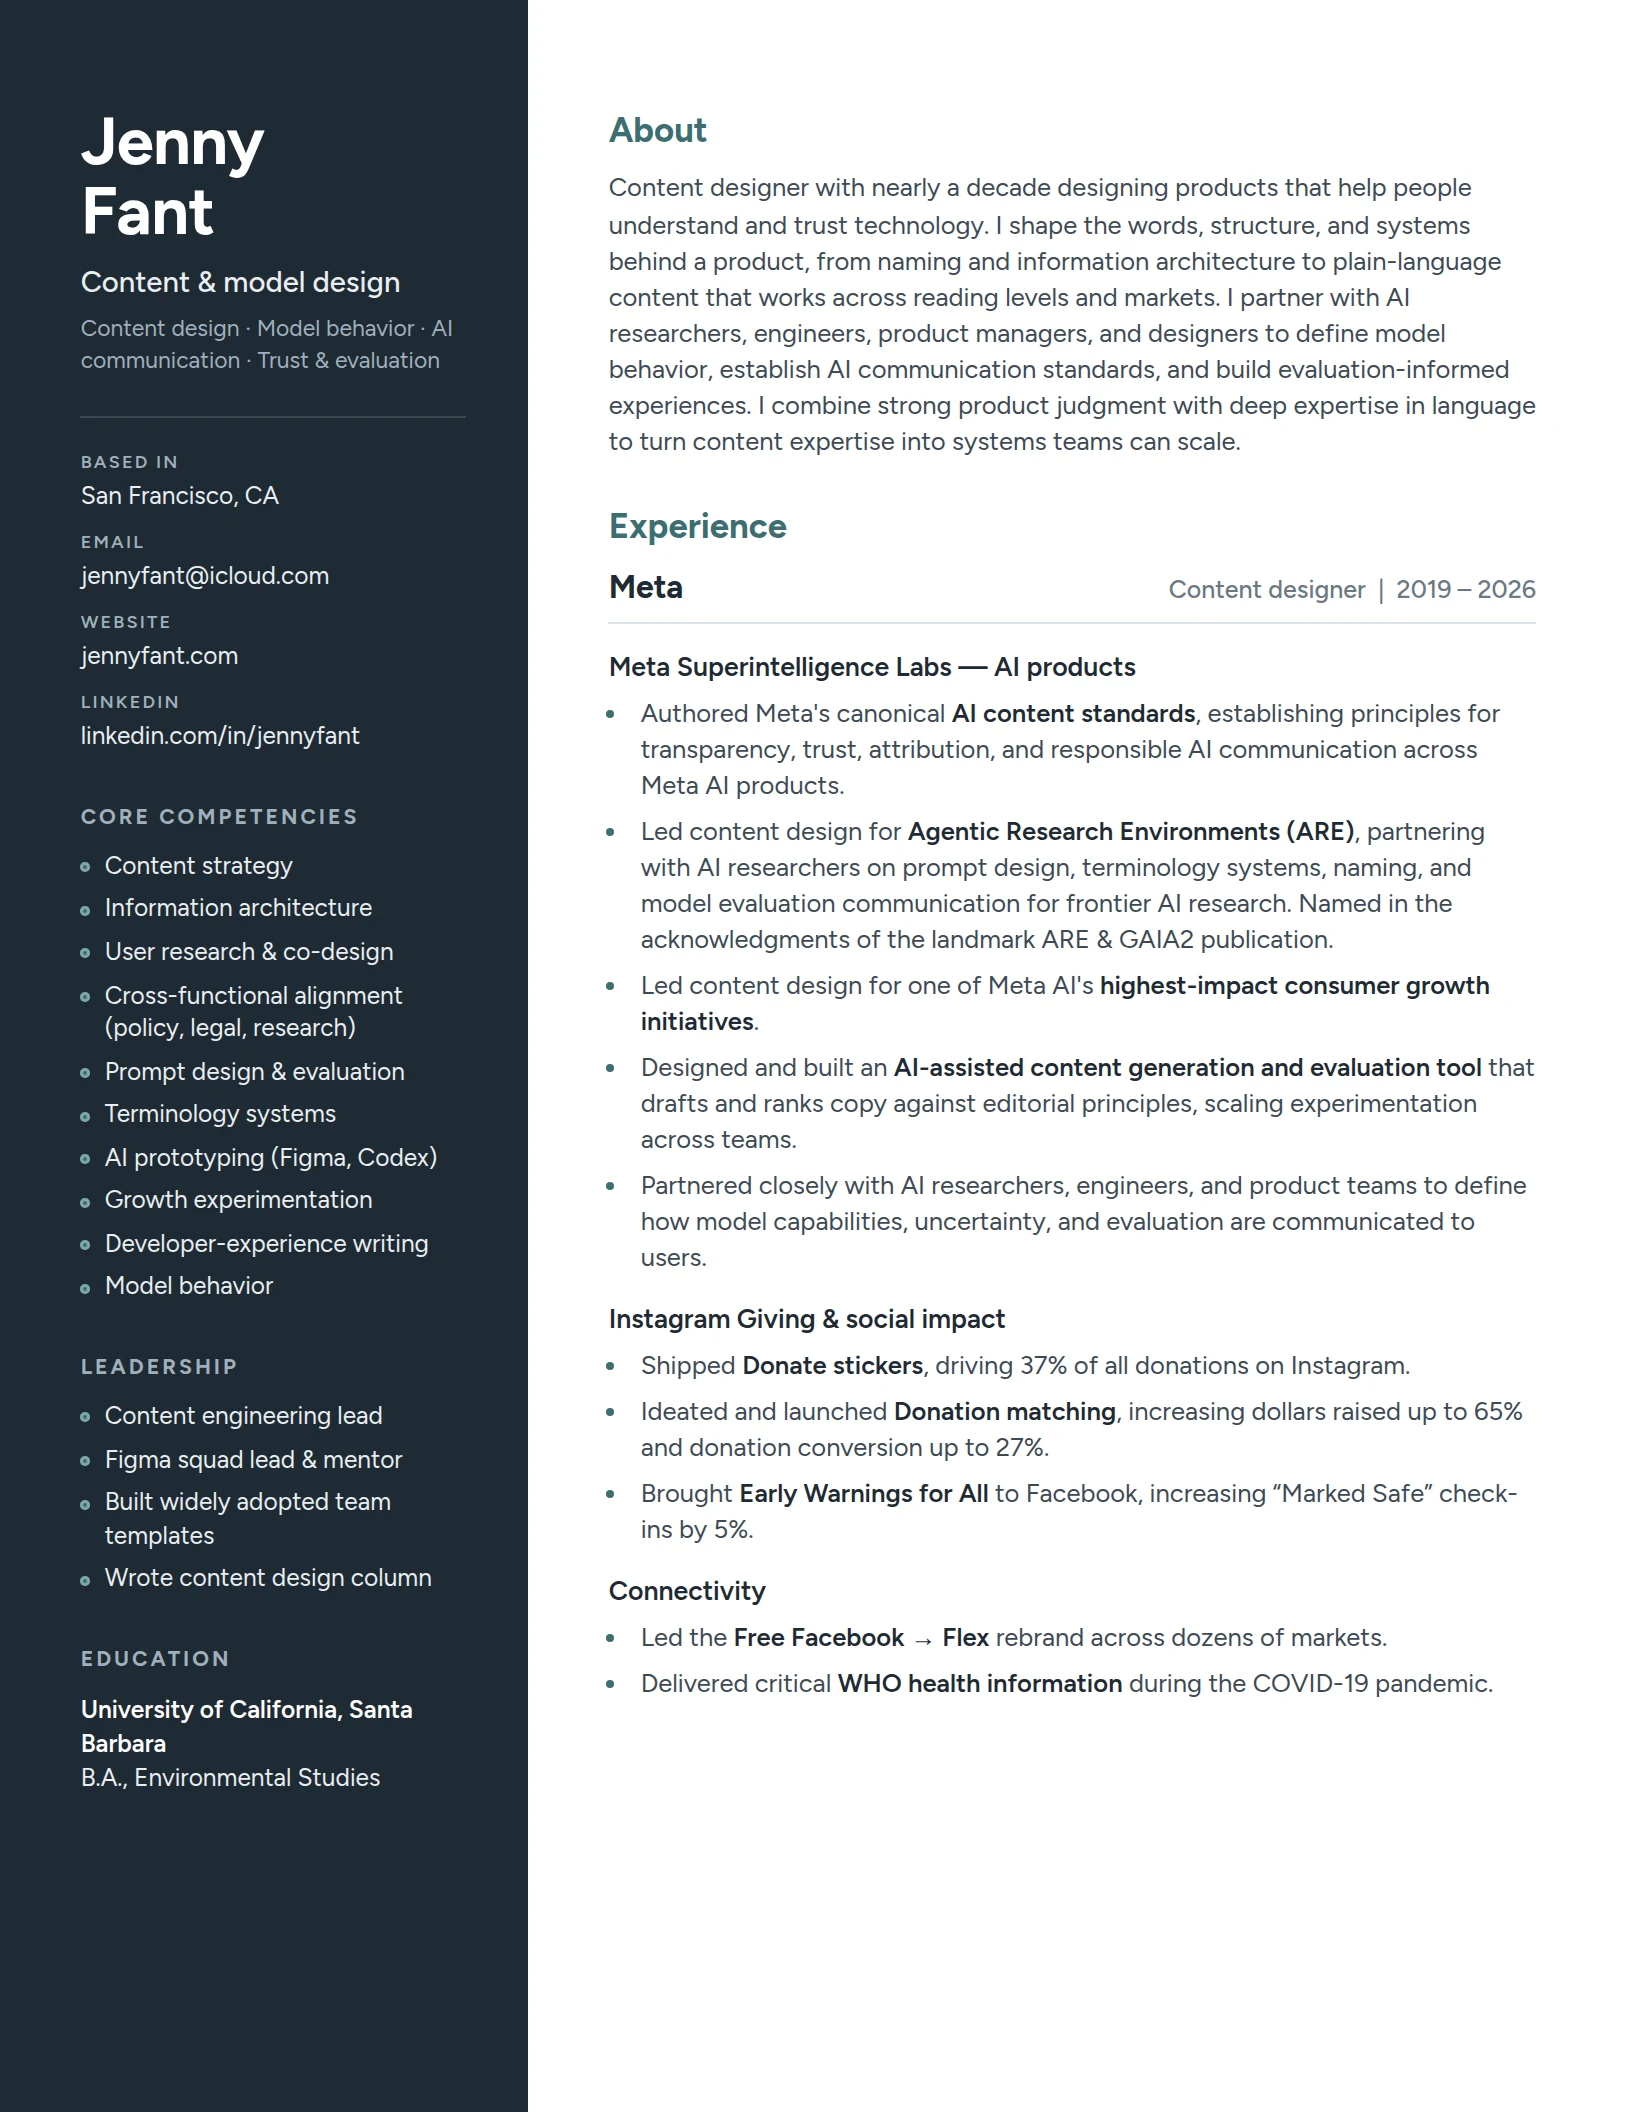
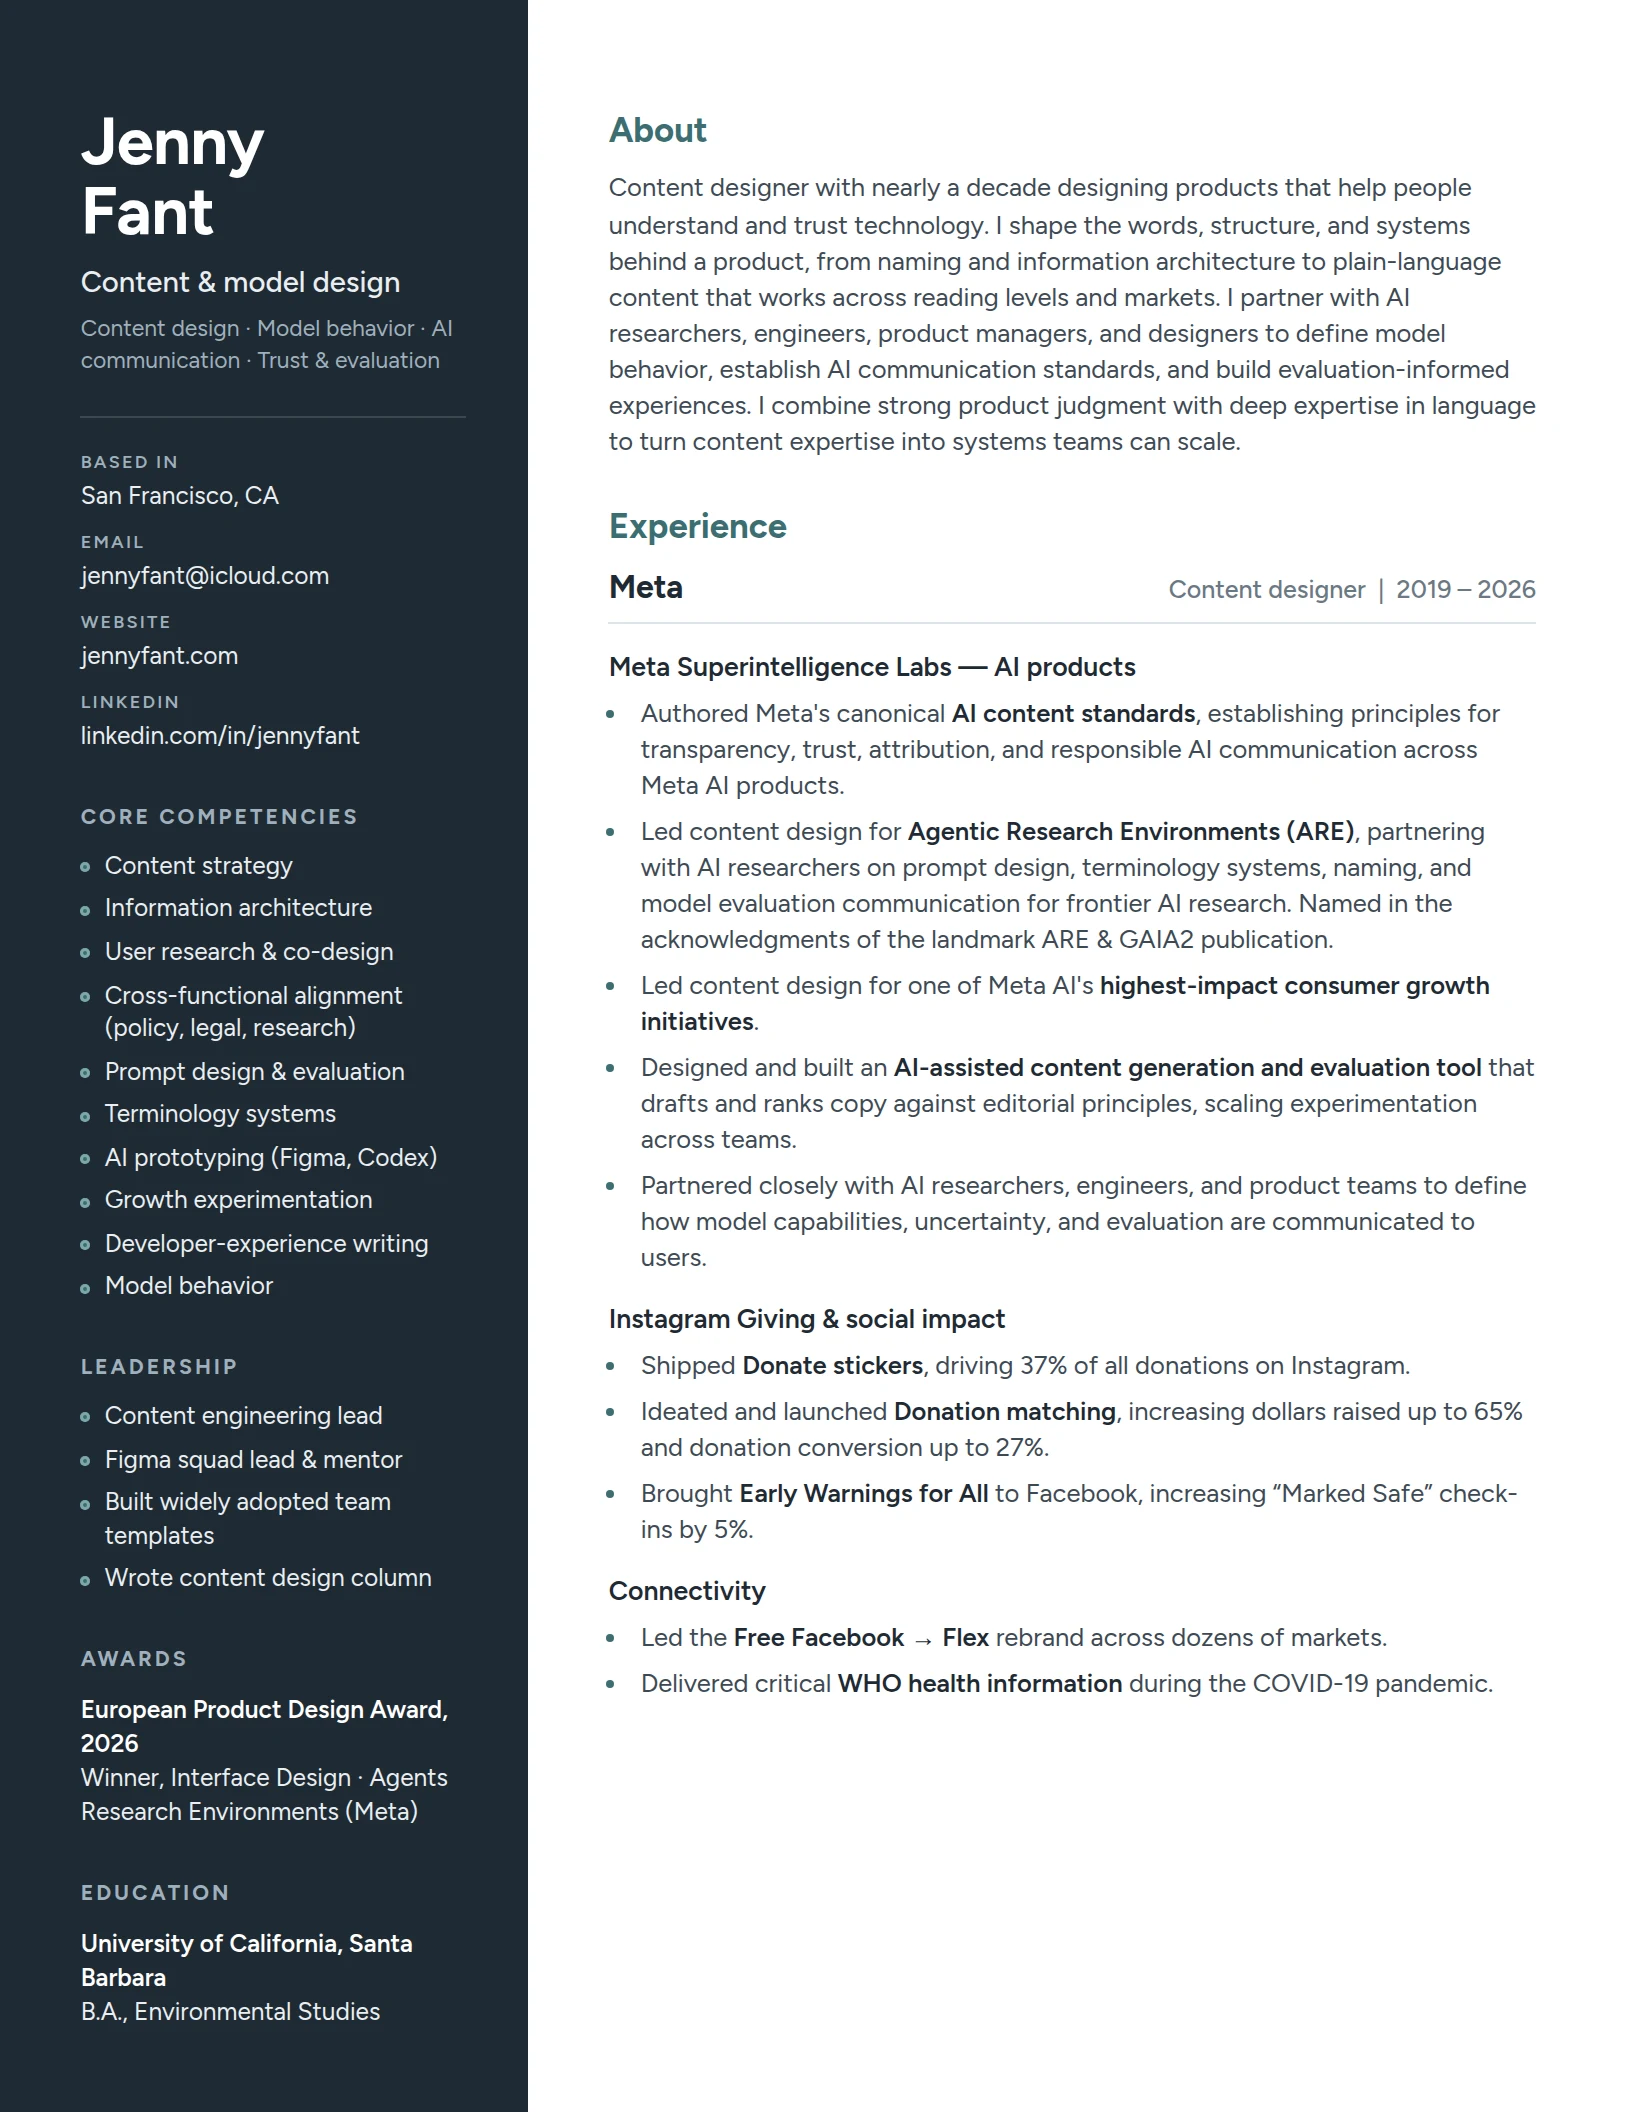
Add files via upload

Changed region(s): [[0.0312, 0.7812, 0.25, 0.9688]]

diff --git a/index.html b/index.html
@@ -8,6 +8,17 @@
 <link rel="apple-touch-icon" href="apple-touch-icon.png?v=2">
 <title>Jenny Fant · Content &amp; model design</title>
 <meta name="description" content="Jenny Fant is a content and model designer in San Francisco.">
+<meta property="og:type" content="website">
+<meta property="og:url" content="https://jennyfant.com/">
+<meta property="og:title" content="Jenny Fant · Content &amp; model design">
+<meta property="og:description" content="Content and model designer in San Francisco. Words, systems, and AI behavior for products people trust.">
+<meta property="og:image" content="https://jennyfant.com/og-image.png">
+<meta property="og:image:width" content="1200">
+<meta property="og:image:height" content="630">
+<meta property="og:image:alt" content="Jenny Fant, content and model designer">
+<meta name="twitter:card" content="summary_large_image">
+<meta name="twitter:image" content="https://jennyfant.com/og-image.png">
+
 <link rel="preconnect" href="https://fonts.googleapis.com">
 <link rel="preconnect" href="https://fonts.gstatic.com" crossorigin>
 <link rel="stylesheet" href="https://fonts.googleapis.com/css2?family=Courier+Prime:ital,wght@0,400;0,700;1,400&family=DM+Mono:wght@400;500&family=Newsreader:ital,opsz,wght@0,6..72,400;0,6..72,500;1,6..72,400&family=Geist:wght@400;500;600&family=Geist+Mono:wght@400;500&display=swap">
@@ -406,7 +417,7 @@ body.w-lp .center{align-self:center}
 }
 body .panel{border-radius:18px}
 body .deckwrap{border:0;border-radius:12px;overflow:hidden;box-shadow:0 1px 2px rgba(0,0,0,.08),0 8px 24px -8px rgba(0,0,0,.22)}
-body .deckwrap iframe{border:0;border-radius:12px}
+body .deckwrap iframe{border:0;border-radius:12px}.deckwrap .deckimg{position:absolute;inset:0;width:100%;height:100%;object-fit:contain;display:block;background:#F4F5F7}
 body .panel .rs-img{border-radius:10px;box-shadow:0 1px 2px rgba(0,0,0,.08),0 8px 24px -8px rgba(0,0,0,.22)}
 body .nav .brand::after{top:calc(100% + 12px);font-size:12px;padding:9px 13px;border-radius:8px;box-shadow:0 8px 22px -8px rgba(0,0,0,.45);transform:translateY(-4px);transition:opacity .2s ease,transform .2s ease}
 body .nav .brand::before{content:"";position:absolute;left:18px;top:calc(100% + 6px);width:12px;height:12px;background:var(--ink);transform:rotate(45deg) translateY(-4px);opacity:0;pointer-events:none;transition:opacity .2s ease,transform .2s ease;z-index:19}
@@ -483,6 +494,7 @@ body.w-nb .nb-line span{font-weight:500;letter-spacing:.02em}
         <dt>Based</dt><dd>San Francisco</dd>
         <dt>Focus</dt><dd>Content design<br>Model design</dd>
         <dt>Lately</dt><dd>Meta Superintelligence Labs</dd>
+        <dt>Awards</dt><dd>European Product Design Award, 2026</dd>
       </dl>
     </div>
   </section>
@@ -575,10 +587,10 @@ body.w-nb .nb-line span{font-weight:500;letter-spacing:.02em}
   const PANELS = {
     about: ['Jenny Fant', `<p>Content and model designer in San Francisco. Nearly a decade at Meta, most recently at Meta Superintelligence Labs, designing products that help people understand and trust technology.</p><div class="acts"><button class="btn" data-open="contact">Get in touch</button></div>`],
     resume: ['Resume', `<div class="acts rs-acts"><a class="btn" href="Jenny_Fant_Resume.pdf" download="Jenny_Fant_Resume.pdf">Download PDF</a></div><img class="rs-img" src="resume.webp" alt="Jenny Fant's resume: content and model design, Meta 2019 to 2026">`],
-    content: ['Content design', `<div class="deckwrap"><iframe src="https://embed.figma.com/slides/ute4vgu3tr02nEE2q5jVu8/Jenny-Fant-Content-Design---September-2026?node-id=1-995&amp;embed-host=share" title="Jenny Fant content design portfolio" allowfullscreen loading="lazy"></iframe></div><div class="deckctl"><button type="button" class="deck-prev" aria-label="Previous slide">←</button><span class="deck-n" aria-live="polite"></span><button type="button" class="deck-next" aria-label="Next slide">→</button></div><div class="acts"><a class="btn" href="https://www.figma.com/deck/ute4vgu3tr02nEE2q5jVu8/Jenny-Fant-Content-Design---September-2026?node-id=1-995" target="_blank" rel="noopener">Open full screen in Figma</a></div>`],
+    content: ['Content design', `<div class="deckwrap"><img class="deckimg" src="deck/slide-01.webp" alt="Content design portfolio, slide 1 of 37" width="1600" height="900" decoding="async"></div><div class="deckctl"><button type="button" class="deck-prev" aria-label="Previous slide">←</button><span class="deck-n" aria-live="polite"></span><button type="button" class="deck-next" aria-label="Next slide">→</button></div><div class="acts"><a class="btn" href="https://www.figma.com/deck/ute4vgu3tr02nEE2q5jVu8/Jenny-Fant-Content-Design---September-2026?node-id=1-995" target="_blank" rel="noopener">Open full screen in Figma</a></div>`],
     model: ['Model design', `<p>More and more, the model is the product. I'm drawn to the questions underneath that: how an AI should sound, when it should hold back, and how it can be honest about what it can and can't do. I like working through those questions with researchers, writing and testing, and adjusting as we learn.</p><ul>
       <li><b>Voice and character</b>I write to help AI feel clear, warm, and trustworthy, from the tone of a single reply to how it talks about itself.</li>
-      <li><b>Research partnership</b>I worked closely with AI researchers on Agentic Research Environments (ARE), helping shape the prompts and language used to evaluate agents. That work was part of the ARE &amp; GAIA2 publication.</li>
+      <li><b>Research partnership</b>I worked closely with AI researchers on Agentic Research Environments (ARE), helping shape the prompts and language used to evaluate agents. That work was part of the ARE &amp; GAIA2 publication, and the project won a 2026 European Product Design Award.</li>
       <li><b>Evaluation and iteration</b>I test behavior, comparing outputs against clear principles, keeping what works, and letting go of what doesn't.</li>
       <li><b>Empathy at scale</b>I’ve spent years writing for people at the margins, from new-to-internet users to teens and families, and built a muscle considering needs from people around the globe.</li></ul><div class="acts"><span class="soon">Full model design portfolio coming soon.</span></div>`],
     contact: ['Contact', `<p>Open to content design and model design roles.</p><p><span class="email" id="email">jennyfant@icloud.com</span></p><div class="acts"><button class="btn" id="copy" type="button">Copy email</button><a class="btn" href="https://www.linkedin.com/in/jennyfant" target="_blank" rel="noopener">LinkedIn</a></div>`]
@@ -610,15 +622,17 @@ body.w-nb .nb-line span{font-weight:500;letter-spacing:.02em}
   const DECK = ["1-995", "1-1001", "1-1052", "1-1056", "2010-1153", "2010-1171", "2011-1799", "2011-1760", "2011-1303", "2011-1325", "2011-1339", "2011-1381", "2011-1407", "2011-1638", "2008-786", "1-1743", "1-1149", "1-1155", "2007-778", "2007-284", "2007-305", "2007-325", "2007-335", "2007-345", "2007-370", "2007-400", "2007-421", "2007-446", "2007-471", "2007-496", "2007-537", "2007-569", "2007-603", "2007-633", "2007-667", "2007-697", "2011-1991"];
   let deckIdx = 0;
   function deckGo(i) {
-    const fr = panel.querySelector('.deckwrap iframe'); if (!fr) return;
     deckIdx = Math.max(0, Math.min(DECK.length - 1, i));
-    const url = fr.getAttribute('src').replace(/node-id=[\d-]+/, 'node-id=' + DECK[deckIdx]);
-    fr.setAttribute('src', url);
+    const img = panel.querySelector('.deckimg');
+    if (img) { img.src = 'deck/slide-' + String(deckIdx + 1).padStart(2, '0') + '.webp'; img.alt = 'Content design portfolio, slide ' + (deckIdx + 1) + ' of ' + DECK.length; }
     const a = panel.querySelector('a[href*="figma.com/deck"]'); if (a) a.setAttribute('href', a.getAttribute('href').replace(/node-id=[\d-]+/, 'node-id=' + DECK[deckIdx]));
     const n = panel.querySelector('.deck-n'); if (n) n.textContent = (deckIdx + 1) + ' / ' + DECK.length;
     const p = panel.querySelector('.deck-prev'), x = panel.querySelector('.deck-next');
     if (p) p.disabled = deckIdx === 0; if (x) x.disabled = deckIdx === DECK.length - 1;
   }
+  // Preload every slide quietly once the page is idle, so opening and flipping is instant
+  addEventListener('load', () => setTimeout(() => { DECK.forEach((_, k) => { const im = new Image(); im.decoding = 'async'; im.src = 'deck/slide-' + String(k + 1).padStart(2, '0') + '.webp'; }); }, 1500));
+
   document.addEventListener('click', e => { const b = e.target.closest('.deck-prev,.deck-next'); if (!b) return; deckGo(deckIdx + (b.classList.contains('deck-next') ? 1 : -1)); });
   function openPanel(id, slide) {
     
@@ -626,7 +640,7 @@ body.w-nb .nb-line span{font-weight:500;letter-spacing:.02em}
     panel.classList.toggle('rs', id === 'resume'); panel.classList.toggle('wide', id === 'content'); panel.innerHTML = `<button type="button" class="x" data-close>Close</button><h2 id="panel-title">${p[0]}</h2>${p[1]}`;
     scrim.hidden = false; panel.focus({ preventScroll: true });
     const c = $('#copy'); if (c) c.addEventListener('click', copyEmail);
-    if (id === 'content') { deckIdx = Math.max(0, DECK.indexOf(slide || DECK[0])); const n = panel.querySelector('.deck-n'); if (n) n.textContent = (deckIdx + 1) + ' / ' + DECK.length; const pb = panel.querySelector('.deck-prev'); if (pb) pb.disabled = deckIdx === 0; }
+    if (id === 'content') { deckIdx = Math.max(0, DECK.indexOf(slide || DECK[0])); deckGo(deckIdx); const n = panel.querySelector('.deck-n'); if (n) n.textContent = (deckIdx + 1) + ' / ' + DECK.length; const pb = panel.querySelector('.deck-prev'); if (pb) pb.disabled = deckIdx === 0; }
     if (id === 'content' && slide) panel.querySelectorAll('iframe[src],a[href*="figma.com"]').forEach(el => { const at = el.tagName === 'IFRAME' ? 'src' : 'href'; el.setAttribute(at, el.getAttribute(at).replace(/node-id=[\d-]+/, 'node-id=' + slide)); });
   }
   function closePanel() { scrim.hidden = true; if (lastFocus && lastFocus.focus) lastFocus.focus({ preventScroll: true }); }
@@ -634,7 +648,7 @@ body.w-nb .nb-line span{font-weight:500;letter-spacing:.02em}
     const o = e.target.closest('[data-open]'); if (o && !o.closest('.key')) { e.preventDefault(); openPanel(o.dataset.open, o.dataset.slide); return; }
     if (e.target.closest('[data-close]') || e.target === scrim) closePanel();
   });
-  document.addEventListener('keydown', e => { if (e.key === 'Escape' && !scrim.hidden) closePanel(); if (!scrim.hidden && /^Arrow(Left|Right)$/.test(e.key) && panel.querySelector('.deckwrap iframe') && !/INPUT|TEXTAREA/.test(document.activeElement.tagName)) { e.preventDefault(); deckGo(deckIdx + (e.key === 'ArrowRight' ? 1 : -1)); } });
+  document.addEventListener('keydown', e => { if (e.key === 'Escape' && !scrim.hidden) closePanel(); if (!scrim.hidden && /^Arrow(Left|Right)$/.test(e.key) && panel.querySelector('.deckimg') && !/INPUT|TEXTAREA/.test(document.activeElement.tagName)) { e.preventDefault(); deckGo(deckIdx + (e.key === 'ArrowRight' ? 1 : -1)); } });
   function copyEmail(e) {
     const b = e.currentTarget, sel = () => { getSelection().selectAllChildren($('#email')); b.textContent = 'Press ⌘C to copy'; };
     try { navigator.clipboard.writeText('jennyfant@icloud.com').then(() => { b.textContent = 'Copied'; setTimeout(() => b.textContent = 'Copy email', 1600); }, sel); } catch (err) { sel(); }
@@ -791,6 +805,7 @@ body.w-nb .nb-line span{font-weight:500;letter-spacing:.02em}
       ["Short answer: yes. Longer answer: she earns trust in very different rooms, ships under pressure, and brings her own AI tooling, like the ", P('copy generator', '1-1155'), " she built for her team. The ", L('resume', 'resume'), " makes the case in one page."],
       ["I'm biased, but so is the evidence. ", P('Teen safety', '2011-1760'), ", ", P('climate science', '2011-1303'), ", ", P('AI growth', '2010-1171'), ": very different problems, same result. She'd make your team better on day one. ", L('Send her a note', 'contact'), "."]
     )],
+    [/award|prize|recogni|honou?r|epda|european product design/, ["Agents Research Environments, the project Jenny worked on with Meta's AI researchers, won a 2026 European Product Design Award in Interface Design. ", S('See the MSL work', '2010-1153')]],
     [/strength|good at|stand out|unique|best/, ["She designs for real-world outcomes and earns trust quickly across very different domains: ", P('AI growth', '2010-1171'), ", ", P('teen safety', '2011-1760'), ", ", P('climate science', '2011-1303'), ", and ", P('fundraising', '2011-1381'), ". She also builds her own tools, like a ", P('growth copy generator', '1-1155'), ". ", RES]],
     [/content design/, ["Content design is designing with words and structure: what a product says, when it says it, and how it's organized, so people can get things done. See how Jenny does it: ", CD]],
     [/model (design|behavior|behaviour)|prompt|eval/, ["Model design treats the model itself as the product: shaping its voice, its judgment, and how honestly it explains what it can and can't do, in close partnership with researchers and evals. See how Jenny approaches it: ", MD]],
